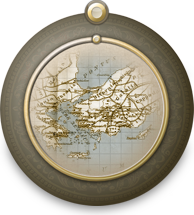
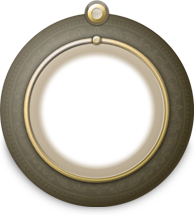
muahaha, minimap...
git-svn-id: http://svn.unknown-horizons.org/trunk@2736 d3468d7a-13f2-4ea4-bf00-366cb6352a40

diff --git a/horizons/gui/widgets/minimap.py b/horizons/gui/widgets/minimap.py
@@ -28,9 +28,9 @@ from horizons.util import Changelistener, Point, Rect
 class Minimap(Changelistener):
 	"""Draws Minimap to a specified location."""
 	water_id, island_id, player_id, cam_border = range(0, 4)
-	colors = { 0: (0,   0, 255),
-	           1: (0, 255,   0),
-	           2: (255, 0,   0),
+	colors = { 0: (190, 175, 152),
+	           1: (137, 117, 87),
+	           2: (147, 18, 18),
 	           3: (1,   1,   1) }
 
 	def __init__(self, rect, renderer):

diff --git a/horizons/gui/ingamegui.py b/horizons/gui/ingamegui.py
@@ -71,7 +71,7 @@ class IngameGui(LivingObject):
 			'speedDown' : horizons.main.session.speed_down
 		})
 		# -300 is debug
-		self.minimap = Minimap(Rect(Point(self.gui['minimap'].position[0]+50 -300, 48), 120, 120), \
+		self.minimap = Minimap(Rect(Point(self.gui['minimap'].position[0]+377 -300, 55), 120, 120), \
 													 horizons.main.session.view.renderer['GenericRenderer'])
 
 		self.gui['menuPanel'] = load_xml_translated('menu_panel.xml')
